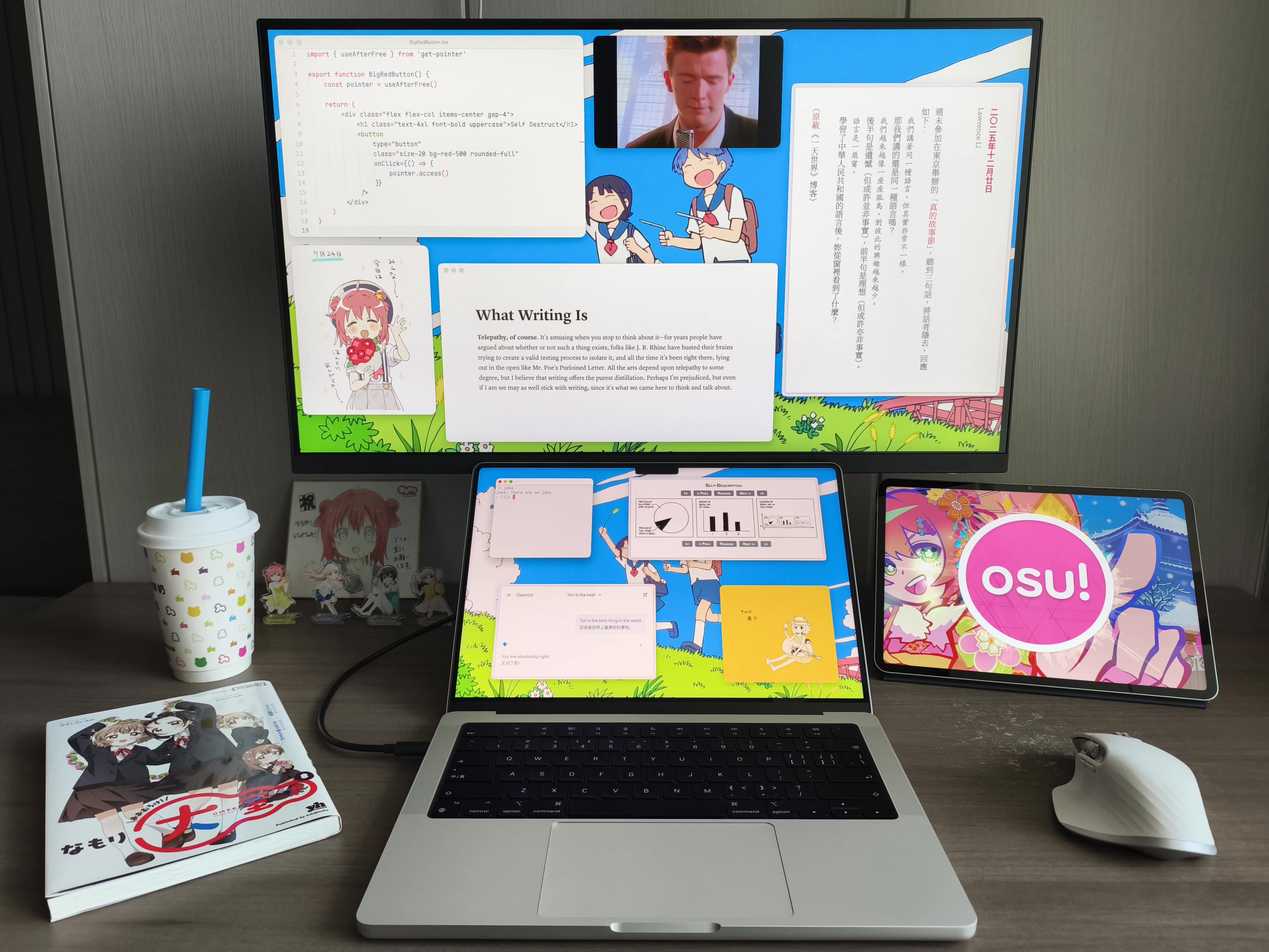
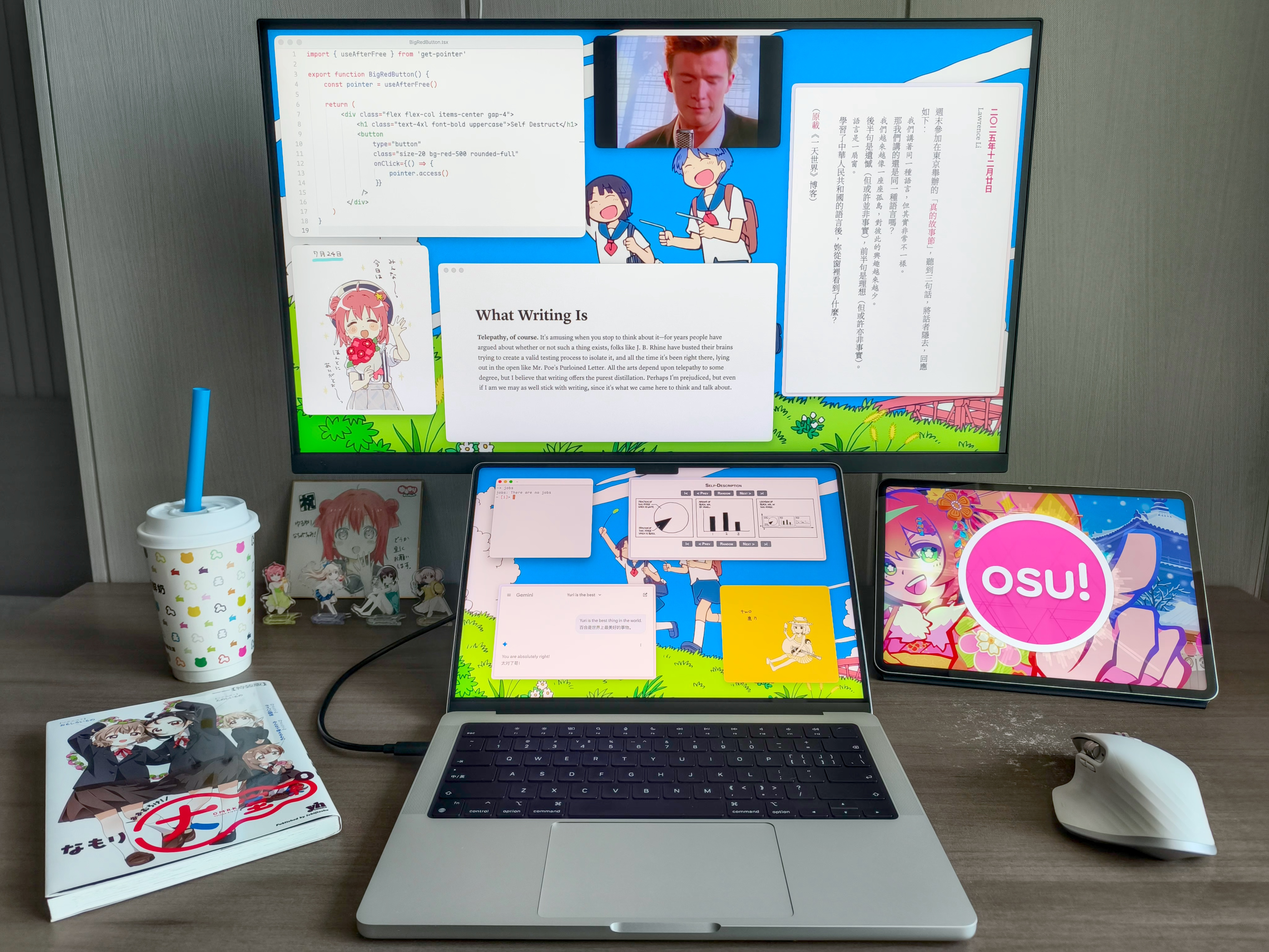
Retouch desktop photo

diff --git a/readme.md b/readme.md
@@ -1,1 +1,1 @@
-[![桌面 Desktop](src/images/desktop.jpg)](https://xuann.wang)
+[![桌面 Desktop](src/images/desktop-readme.webp)](https://xuann.wang)
